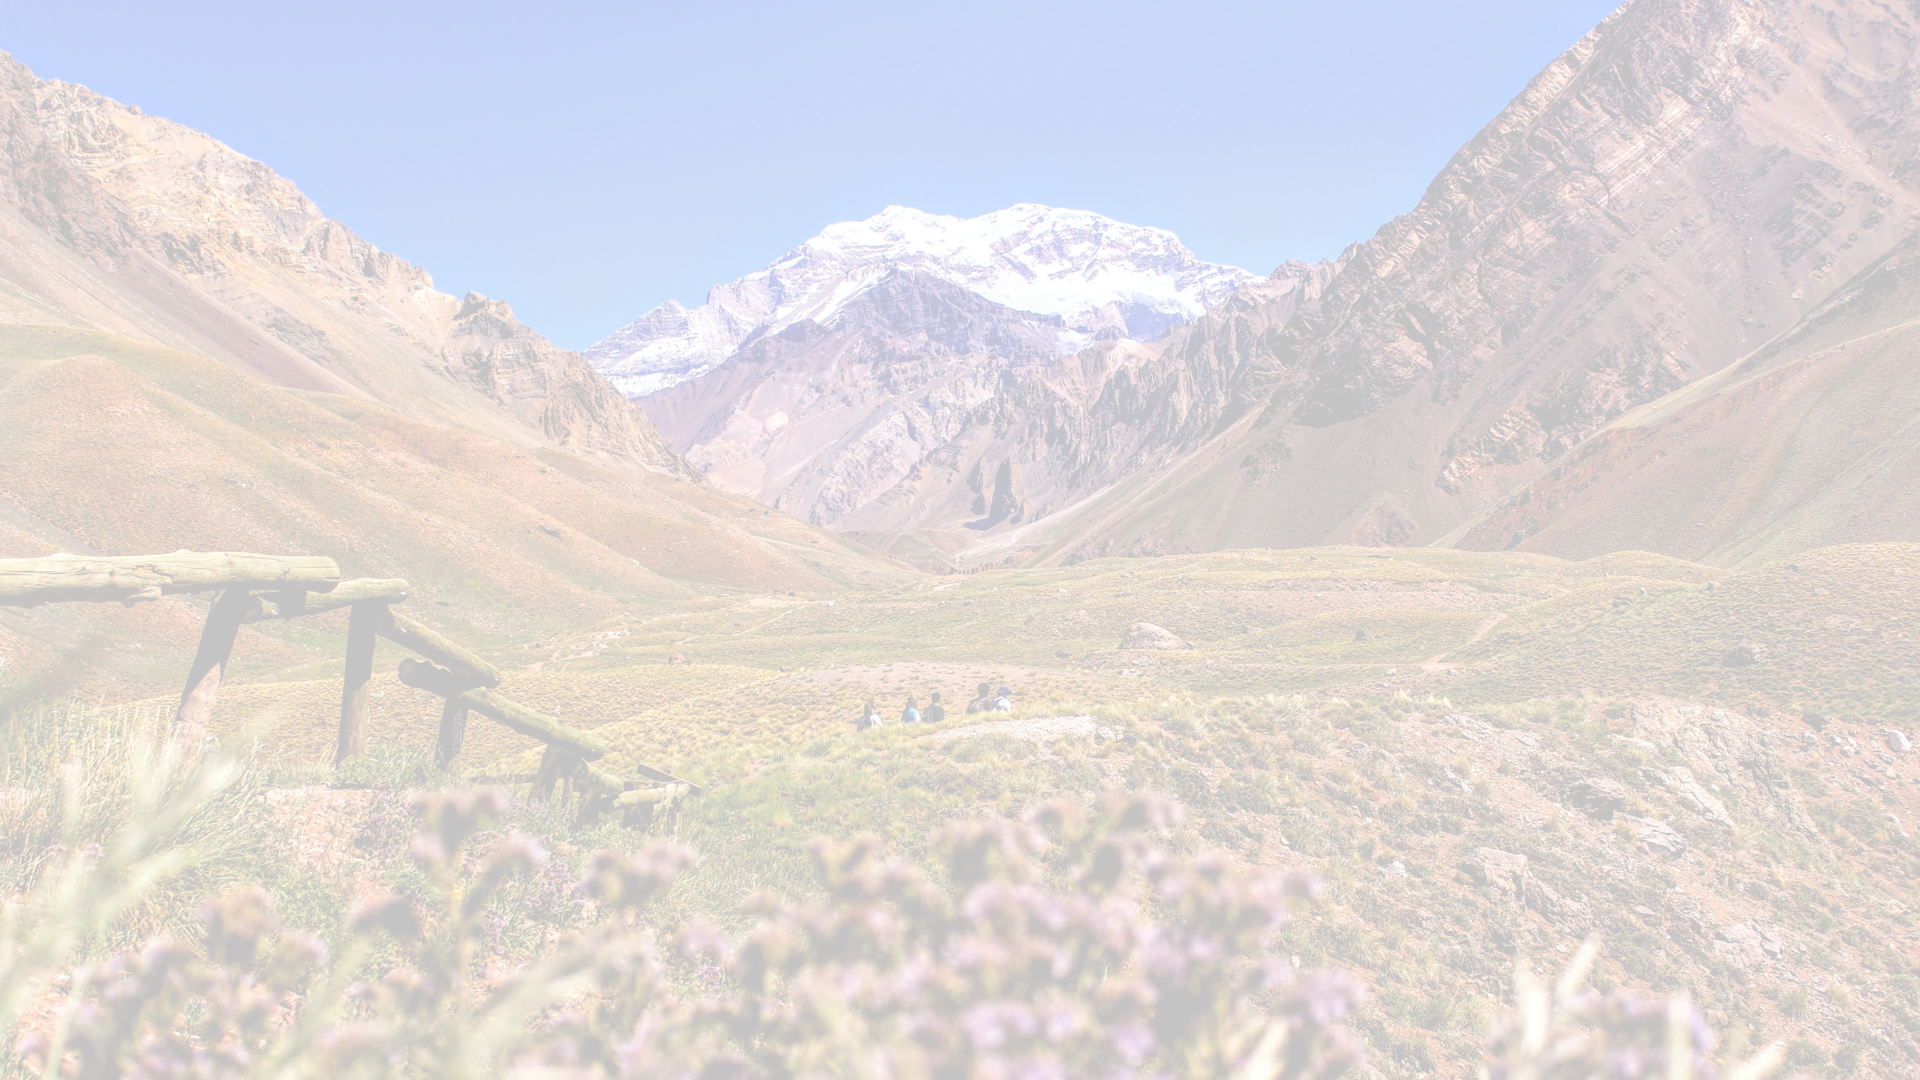
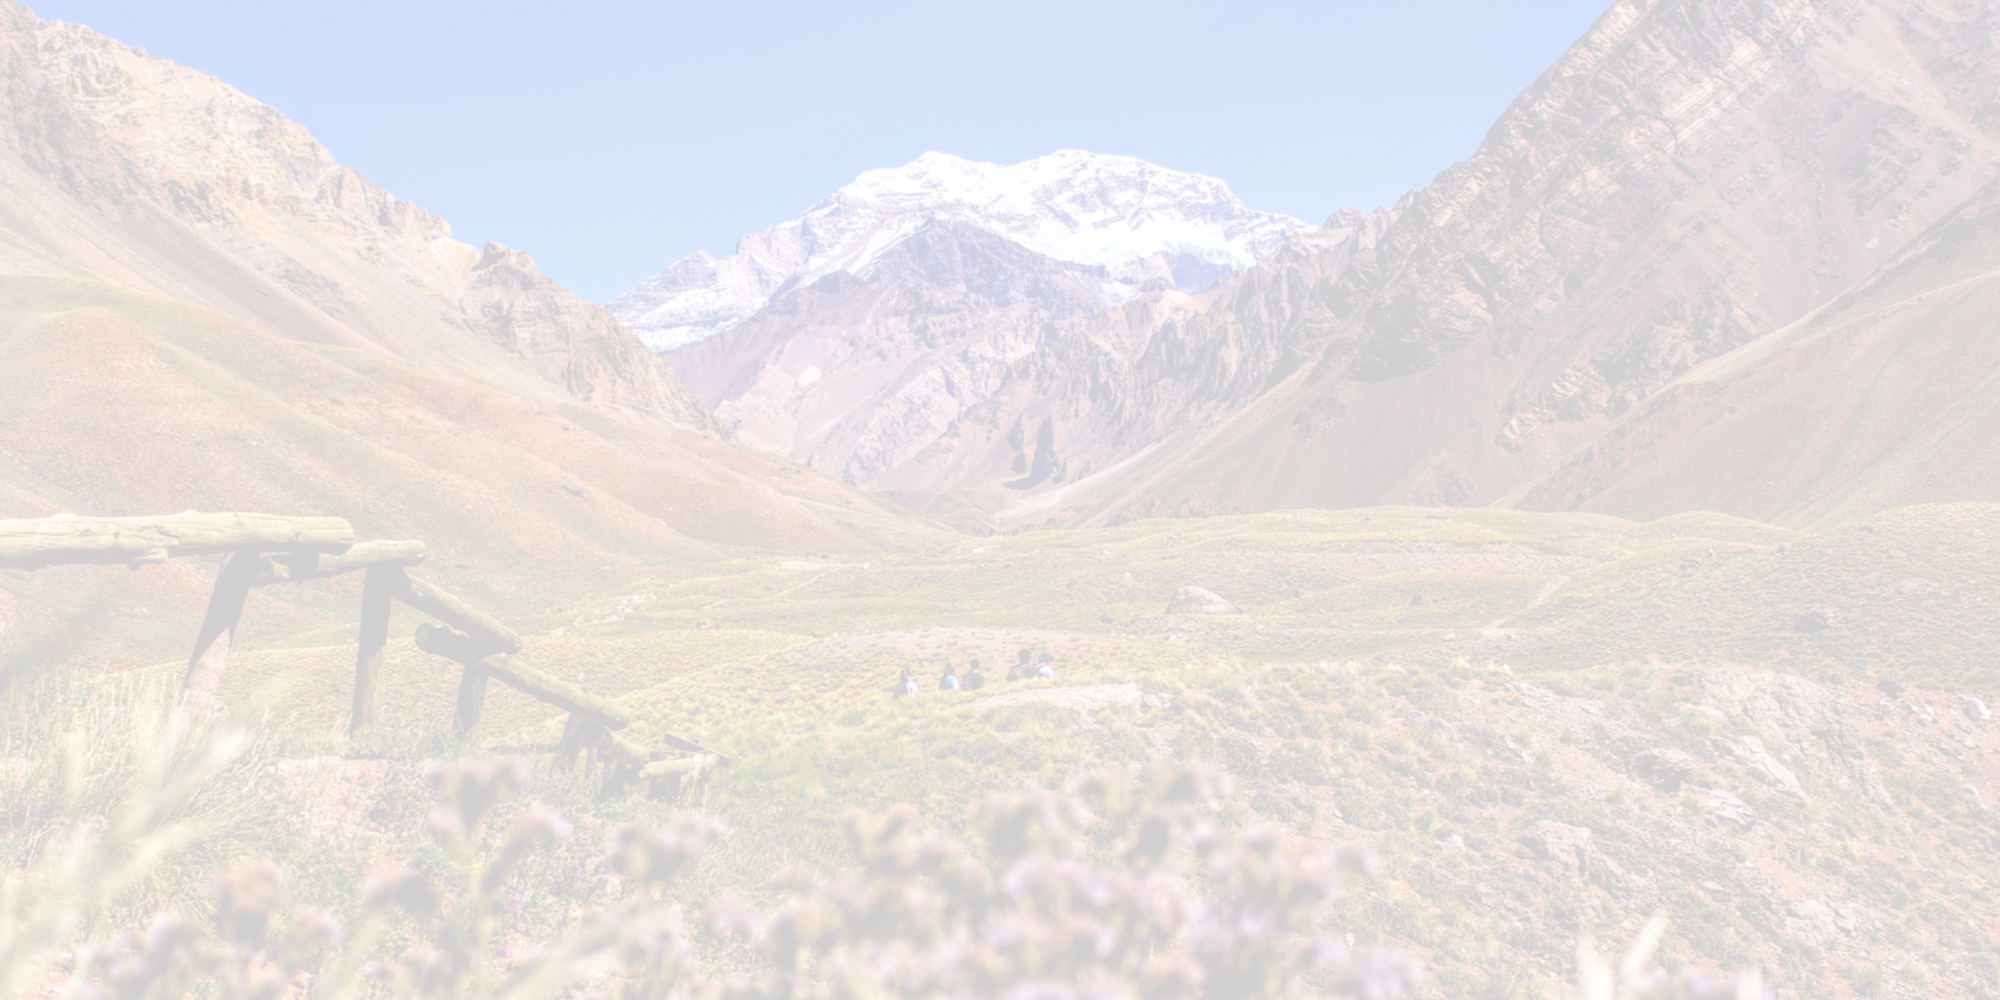
grids cobertura y responsive tablet

diff --git a/css/style.css b/css/style.css
@@ -180,26 +180,41 @@ h1 {
 
 /* Cobertura */
 
-.mapa-zona-este {
-    width: 300px;
-    height: 300px; 
-    display: inline-block;
-    position: relative;
-    left:300px;
-    
+.cobertura {
+    background-image: url(../assets/img/background-cobertura.png);
+    background-attachment: fixed;
+   
     
 }
-.mapa-texto {
-    font-size:20px;
-    text-align: center;
-    width: 269px;
-    height: 409px;
-    display: inline-block;
-    position: relative;
-    left: 400px
 
-    
+.cobertura-h1 {
+    padding-top: 50px;
 }
+
+
+.grid-cobertura {
+    display: grid;
+    grid-template-columns: repeat(7,1fr);
+    grid-template-rows:repeat(3,1fr);
+}
+
+.mapa-zona-este {
+    width: 400px;
+    height: 400px;
+    grid-column: 2/4;
+    grid-row: 1/3;
+    padding-top: 40px;
+}
+
+.mapa-texto {
+    grid-column: 5/7;
+    grid-row:1/3;
+    font-size: 16px;
+    padding-top: 15px;
+
+}
+
+
 
 /* Test */
 
@@ -375,70 +390,84 @@ h1 {
 
     @media (max-width:768px){
 
+        /* Inicio */
+
         /* Header */
-  .container-fluid img {
+    .container-fluid img {
     width: 25%;
     
-  }
+    }
 
   /* Main */
-  #carouselExampleAutoplaying {
+    #carouselExampleAutoplaying {
     width: 100%;
-  }
+    }
 
         /* Footer */
 
-      footer {
+        footer {
         height: 300px;
         padding-top: 50px;
         font-size: 28px;
         font-family:'Ubuntu', sans-serif;
-      }
-      .footer-1 {
+        }
+        .footer-1 {
         display: flex;
         flex-direction: row;
         justify-content: space-evenly;
         align-items: center;
         padding-bottom: 10px;
-       
-      }
-      .footer-2 {
+        
+        }
+        .footer-2 {
         display: flex;
         flex-direction: column;
         justify-content: space-evenly;
         align-items: center;
         
         
-      }
-      .footer-3 {
+        }
+        .footer-3 {
         display: flex;
         flex-direction: column;
         justify-content: space-evenly;
         align-items: center;
-        
-        
-      }
-       .footer-3 img {
+        }
+
+        .footer-3 img {
         position: absolute;
         left: 200px;
-       }
+        }
 
-       footer section img {
+        footer section img {
         width: 25px;
         height: 25px;
-       } 
-       }
+        } 
+
+        /* Cobertura */
+
+        .grid-cobertura {
+            display: grid;
+            grid-template-columns: repeat(7,1fr);
+            grid-template-rows:repeat(2,1fr);
+        }
+
+        }
+
+
+
+
 
        /* Mobile */
 
-       @media (max-width:320px) {
+        @media (max-width:320px) {
 
         /* Inicio */
 
         /* Header */
-.container-fluid img {
-    width:100%
-}
+        .container-fluid img {
+        width:100%
+        }
 
 /* Footer */
 footer {
@@ -446,9 +475,9 @@ footer {
     padding-top: 50px;
     font-size: 20px;
     font-family:'Ubuntu', sans-serif;
-  }
+    }
 
-  .footer-1 {
+    .footer-1 {
         display: flex;
         flex-direction: column;
         justify-content: space-evenly;
@@ -456,12 +485,12 @@ footer {
         margin-bottom: 20px;}
 
 
-  .footer-3 img {
+    .footer-3 img {
     position: absolute;
     left: 30px;
-   }
+    }
 
-   footer section img {
+    footer section img {
     width: 25px;
     height: 25px; }
 
@@ -496,8 +525,12 @@ footer {
         border-style: solid;
         text-align: center;
         padding-top: 20px;
-        margin-right: 5px;
-        
+        margin-right: 5px;}
 
-}
 
+
+
+
+
+
+    }

diff --git a/pages/cobertura.html b/pages/cobertura.html
@@ -43,21 +43,17 @@
         
           </header>  
         <main>
-            <section style="background-image: url(../assets/img/background-cobertura.png); background-size: cover;">
-                <h1>
+            <section class="cobertura">
+                <h1 class="cobertura-h1">
                 Amplia cobertura para toda la Zona Este de Mendoza
                 </h1> 
-                <div>
+              
+                <div class="grid-cobertura">
                 <img class="mapa-zona-este" src="../assets/img/mapa-zona-este.PNG" alt="">
-                <p class="mapa-texto"> Lorem ipsum dolor sit amet consectetur adipisicing elit. Sapiente eum tenetur rem illum quo perspiciatis qui, nam doloremque dolorum suscipit. Sequi ea sapiente dolor delectus! Assumenda cum ratione sed odio.</p>
+                <p class="mapa-texto"> Lorem ipsum dolor sit amet consectetur adipisicing elit. Sunt architecto excepturi sit repellendus numquam eum officia facere, fugiat temporibus suscipit asperiores. Ad, quam! Consectetur ipsam architecto a nihil nesciunt quidem! Lorem ipsum dolor sit amet consectetur adipisicing elit. In voluptatibus voluptas similique eum dolore vel, doloremque maiores consequatur dolorem harum iusto reprehenderit libero ullam labore enim vitae dolores laborum veniam?</p>
             </div>
-            <div></div>
             </section>
-            
-                
-            
-            
-            
+    
         </main> 
         <footer>
             <section>
